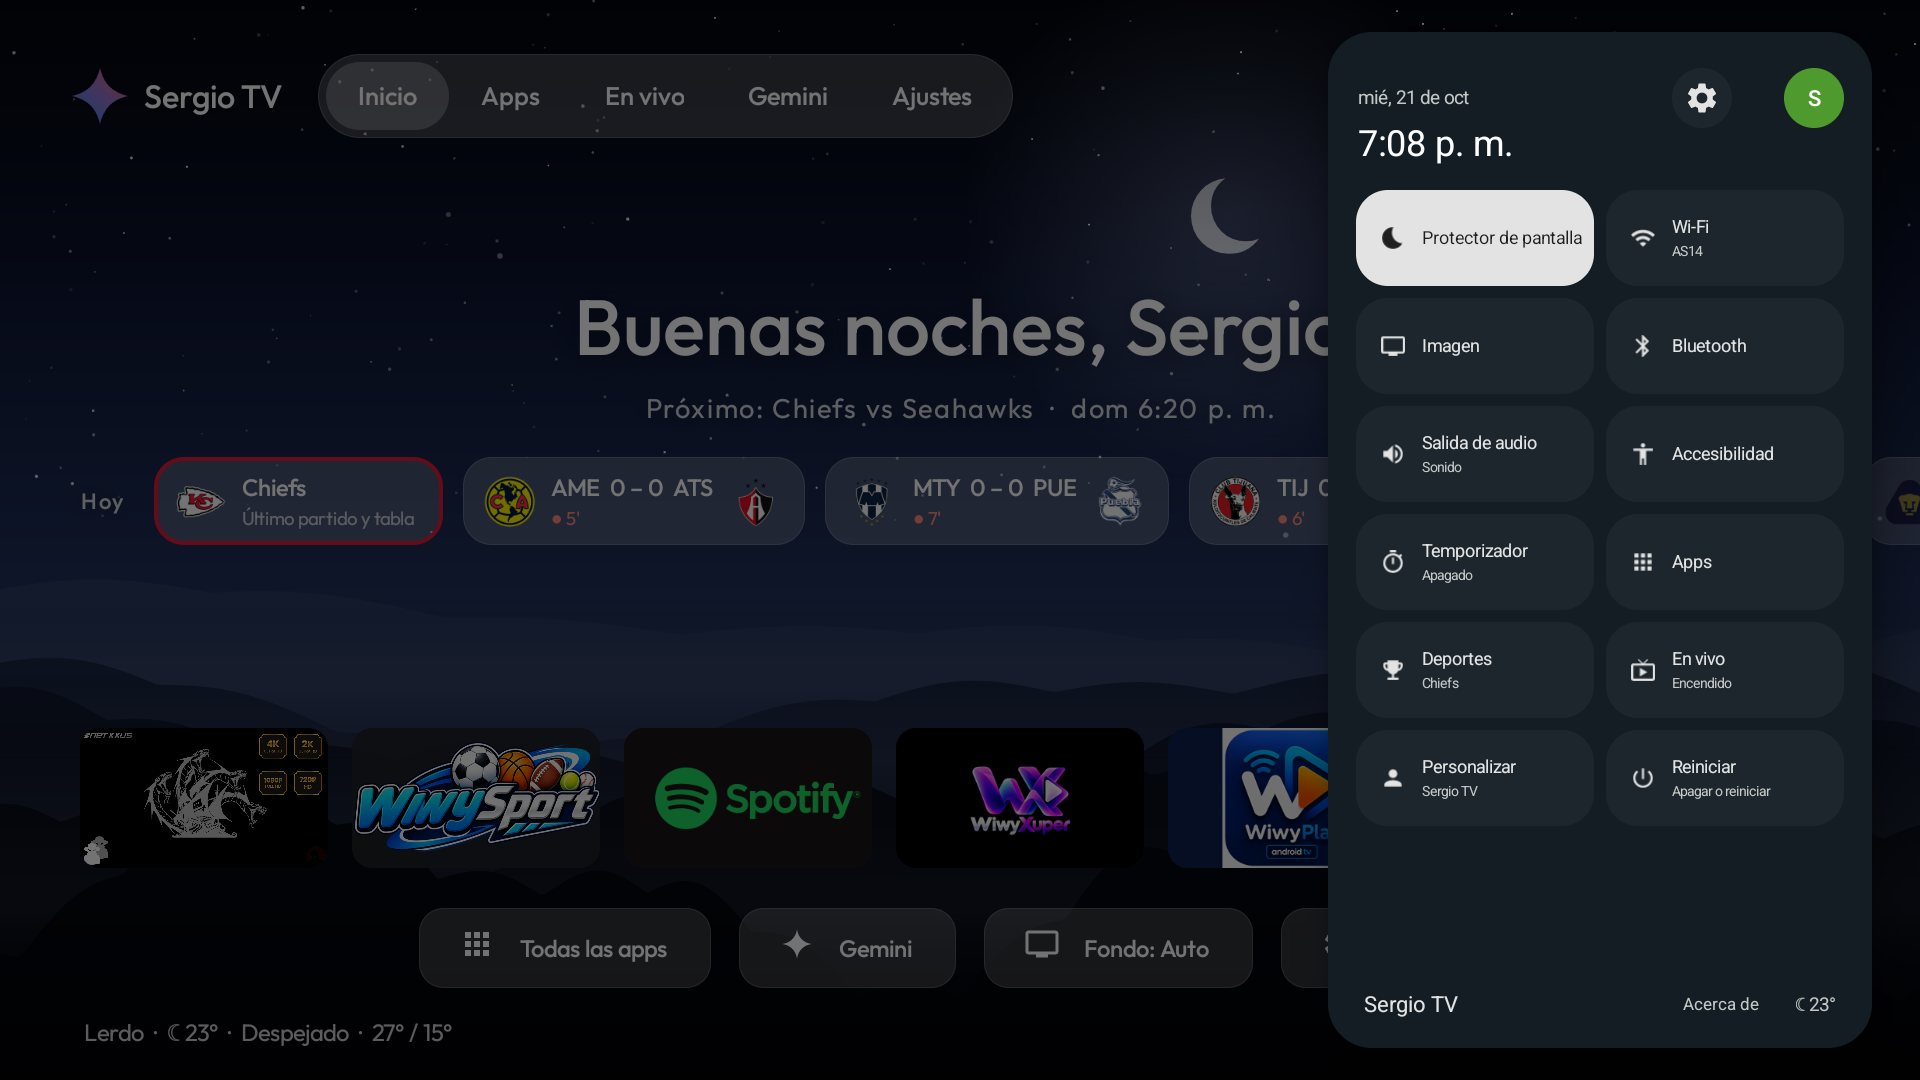
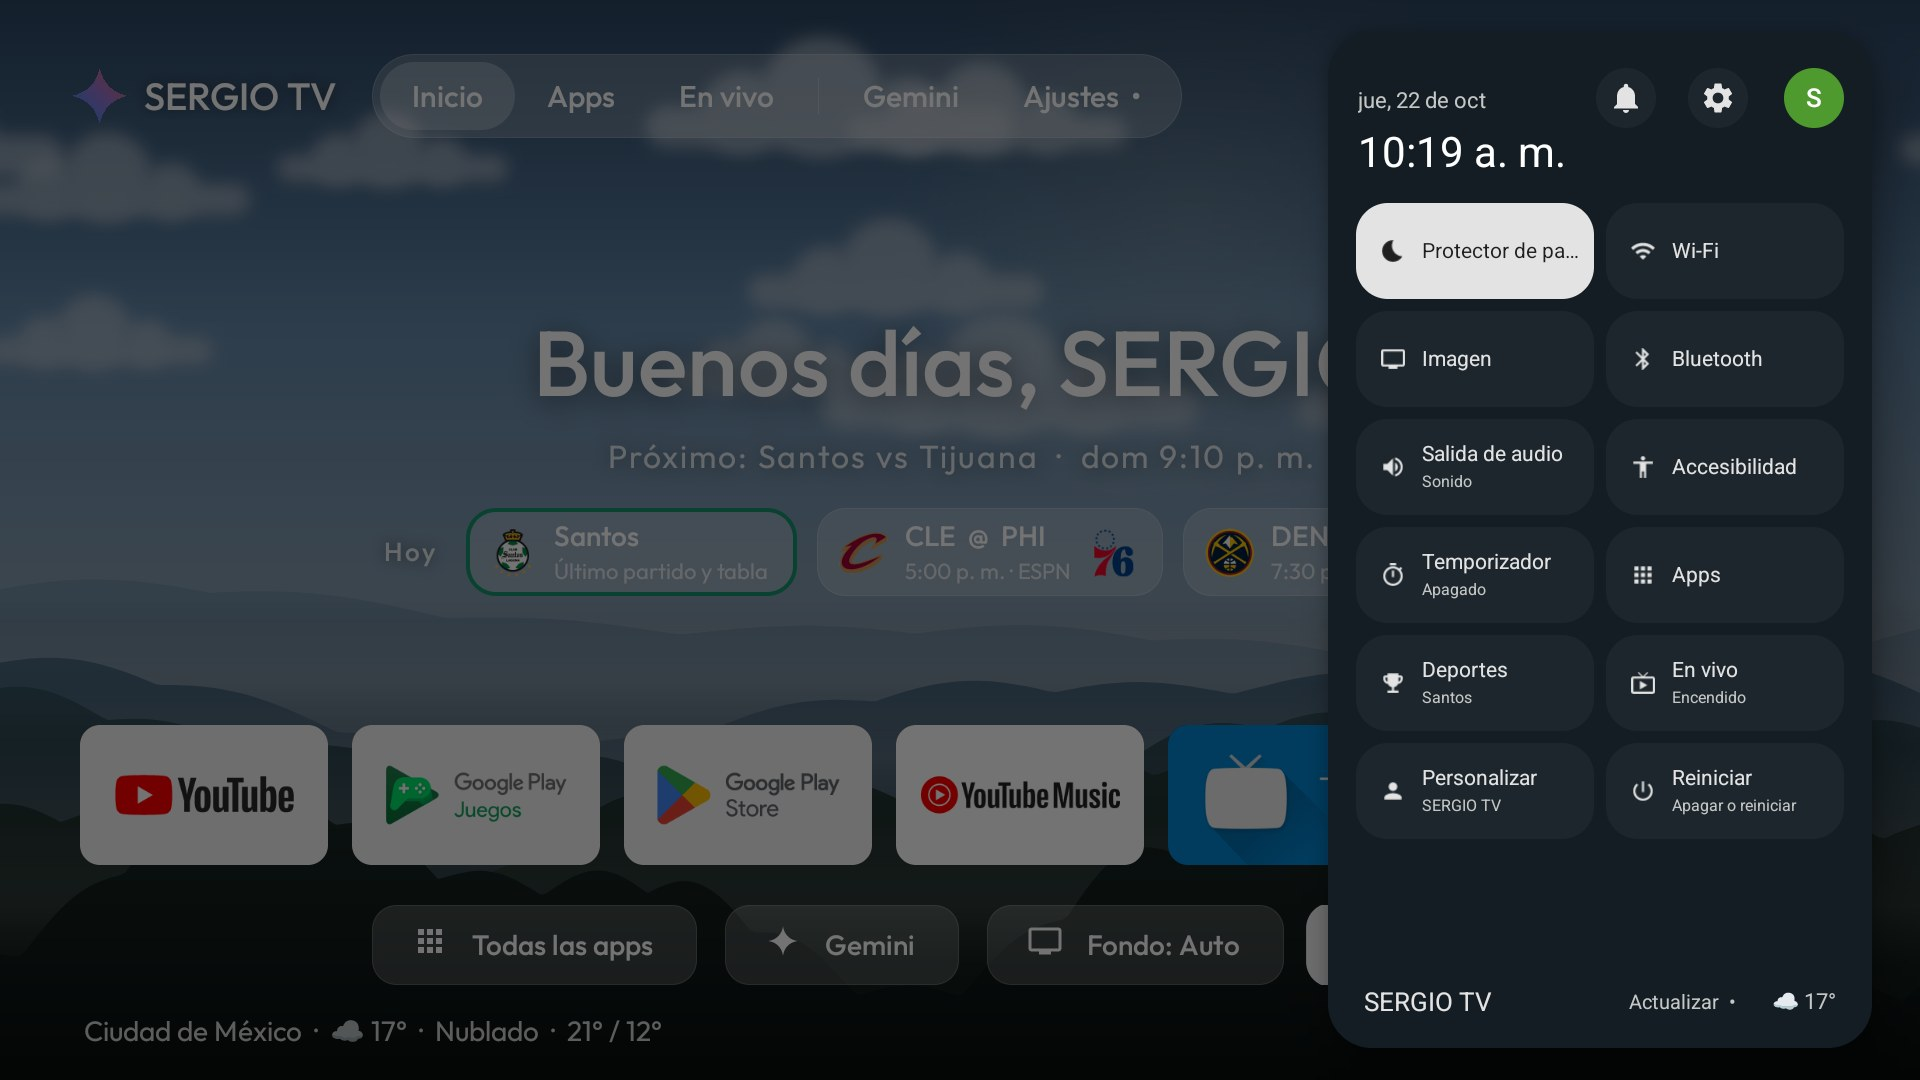
README: captura nueva del menú rápido, del emulador y con la campana de notificaciones

diff --git a/README.md b/README.md
@@ -20,7 +20,7 @@ aparatos con Google TV o Android TV, pero no se ha probado en ellos.
 
 | Menú rápido | Todas las apps |
 |---|---|
-| ![Menú rápido con Deportes y En vivo](docs/screenshots/menu-rapido.jpg) | ![Todas las apps, con palomita en las que están en el inicio](docs/screenshots/todas-las-apps.jpg) |
+| ![Menú rápido con la campana de notificaciones, Deportes y En vivo](docs/screenshots/menu-rapido.jpg) | ![Todas las apps, con palomita en las que están en el inicio](docs/screenshots/todas-las-apps.jpg) |
 
 | Aviso sobre otra app | Mantener OK en un canal |
 |---|---|
